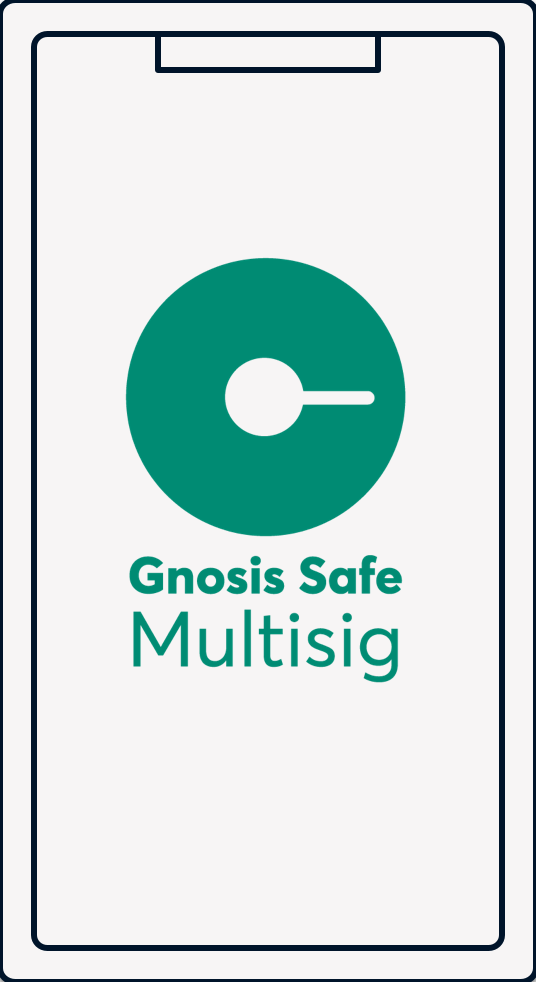
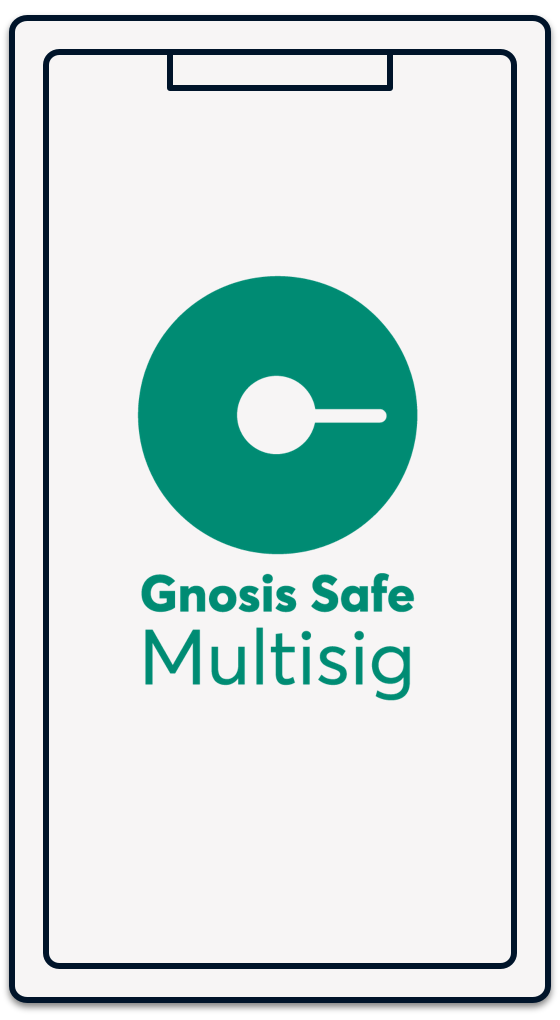
fix phone img

diff --git a/src/components/Layout/HTMLHead.tsx b/src/components/Layout/HTMLHead.tsx
@@ -69,6 +69,18 @@ export default ({
           <meta name="twitter:description" content={seo.description} />
           <meta name="twitter:image" content={seo.image} />
           <meta name="twitter:url" content={seo.url} />
+          <link
+            rel="icon"
+            type="image/png"
+            href="/img/favicon-32x32.png"
+            sizes="32x32"
+          />
+          <link
+            rel="icon"
+            type="image/png"
+            href="/img/favicon-16x16.png"
+            sizes="16x16"
+          />
         </Helmet>
       )
     }}

diff --git a/src/components/ui/Button.tsx b/src/components/ui/Button.tsx
@@ -54,6 +54,7 @@ const SButton = styled.button<BtnProps>`
   font-size: 16px;
   text-decoration: none;
   white-space: nowrap;
+  cursor: pointer;
 
   &:hover {
     background-color: ${p => p.theme.palette.pink};

diff --git a/src/components/home/MultisigMobile/SignUpBox.tsx b/src/components/home/MultisigMobile/SignUpBox.tsx
@@ -54,7 +54,6 @@ const ImgContainer = styled.div`
 
   top: 40%;
   right: -188px;
-  box-shadow: 0 2px 4px 0 rgba(0, 0, 0, 0.5);
 `
 
 const PhoneImg = styled(Image)`
